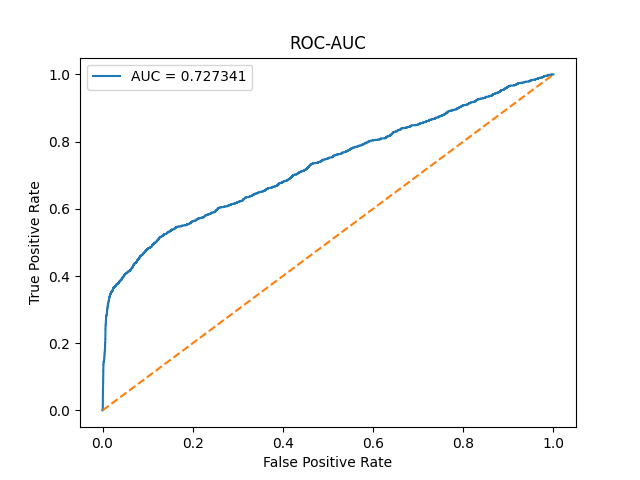
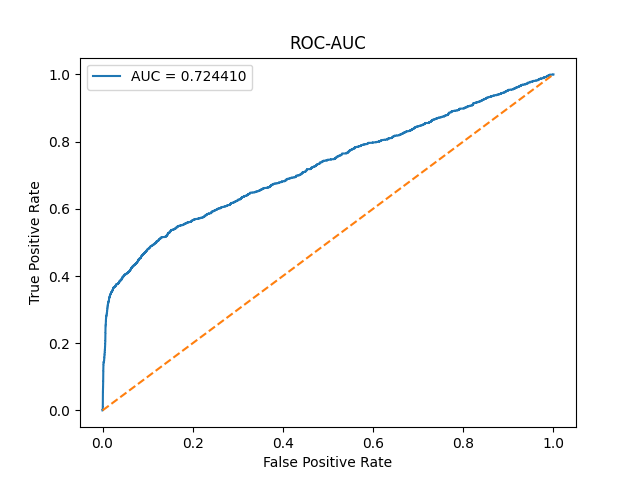
123

diff --git a/vae/after.py b/vae/after.py
@@ -153,8 +153,8 @@ optimizer = optim.Adam(model.parameters(), lr=0.0001)
 
 # 训练模型
 num_epochs = 250
-model.train()
 for epoch in range(num_epochs):
+    model.train()
     train_loss = 0
     for data in train_loader:
         inputs, _ = data
@@ -169,29 +169,28 @@ for epoch in range(num_epochs):
     average_loss = train_loss / len(train_loader)
     if (epoch + 1) % 10 == 0 or epoch == 0:
         print(f'Epoch [{epoch+1}/{num_epochs}], Loss: {average_loss:.4f}')
+        # 评估模型
+        model.eval()
+        test_dataset = SimpleDataset(x_test, y_test, transform=normalize)
+        test_loader = DataLoader(test_dataset, batch_size=1, shuffle=False)
 
-# 评估模型
-model.eval()
-test_dataset = SimpleDataset(x_test, y_test, transform=normalize)
-test_loader = DataLoader(test_dataset, batch_size=1, shuffle=False)
+        reconstruction_errors = []
+        with torch.no_grad():
+            for idx, data in enumerate(test_loader):
+                inputs, labels = data
+                inputs = inputs.to(device)
+                recon_batch, mu, logvar = model(inputs)
+                # 计算重构误差
+                loss = nn.functional.mse_loss(recon_batch, inputs, reduction='mean').item()
+                reconstruction_errors.append(loss)
+                if (idx + 1) % 1000 == 0 or idx == 0:
+                    print(f"Processed {idx+1}/{len(test_loader)} samples")
 
-reconstruction_errors = []
-with torch.no_grad():
-    for idx, data in enumerate(test_loader):
-        inputs, labels = data
-        inputs = inputs.to(device)
-        recon_batch, mu, logvar = model(inputs)
-        # 计算重构误差
-        loss = nn.functional.mse_loss(recon_batch, inputs, reduction='mean').item()
-        reconstruction_errors.append(loss)
-        if (idx + 1) % 1000 == 0 or idx == 0:
-            print(f"Processed {idx+1}/{len(test_loader)} samples")
+        # 转换为NumPy数组
+        reconstruction_errors = np.array(reconstruction_errors)
 
-# 转换为NumPy数组
-reconstruction_errors = np.array(reconstruction_errors)
+        # 保存重构误差
+        np.savetxt(f"{name}_{epoch}.txt", reconstruction_errors)
 
-# 保存重构误差
-np.savetxt(f"{name}.txt", reconstruction_errors)
-
-# 可视化结果
-visual(name, y_test, reconstruction_errors)
+        # 可视化结果
+        visual(name, y_test, reconstruction_errors)

diff --git a/visual/visual.py b/visual/visual.py
@@ -94,6 +94,7 @@ plt.ylabel("True Positive Rate")
 
 fgan("/root/bishe/MAE-ANOGAN/results/score.csv", "MAE-ANOGAN")
 fgan("/root/bishe/f-anogan/results/score.csv", "f-anogan")
+fgan("/root/bishe/f-anogan_16/results/score.csv", "f-anogan-16")
 kitnet("/root/bishe/kitnet/RMSEs.csv", "kitnet")
 txt("/root/bishe/ae/after.txt", "ae")
 txt("/root/bishe/vae/after.txt", "vae")
